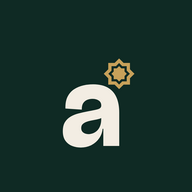
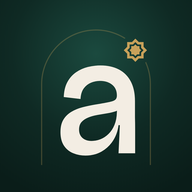
Icona dell'app: nuova (a + stella zellige sotto un arco) e percorso assoluto, così si vede anche se l'app viene aggiunta alla home da un link /i/…
Claude-Session: https://claude.ai/code/session_01KumVoFuCJUZ7vFvpD6bznn

diff --git a/app/index.html b/app/index.html
@@ -7,8 +7,8 @@
     <meta name="apple-mobile-web-app-capable" content="yes" />
     <meta name="apple-mobile-web-app-status-bar-style" content="black-translucent" />
     <meta name="apple-mobile-web-app-title" content="Amariya" />
-    <link rel="icon" type="image/png" href="./favicon-64.png" />
-    <link rel="apple-touch-icon" href="./apple-touch-icon.png" />
+    <link rel="icon" type="image/png" href="/favicon-64.png?v=2" />
+    <link rel="apple-touch-icon" href="/apple-touch-icon.png?v=2" />
     <meta name="mobile-web-app-capable" content="yes" />
     <title>Amariya · عمّارية</title>
     <script>
